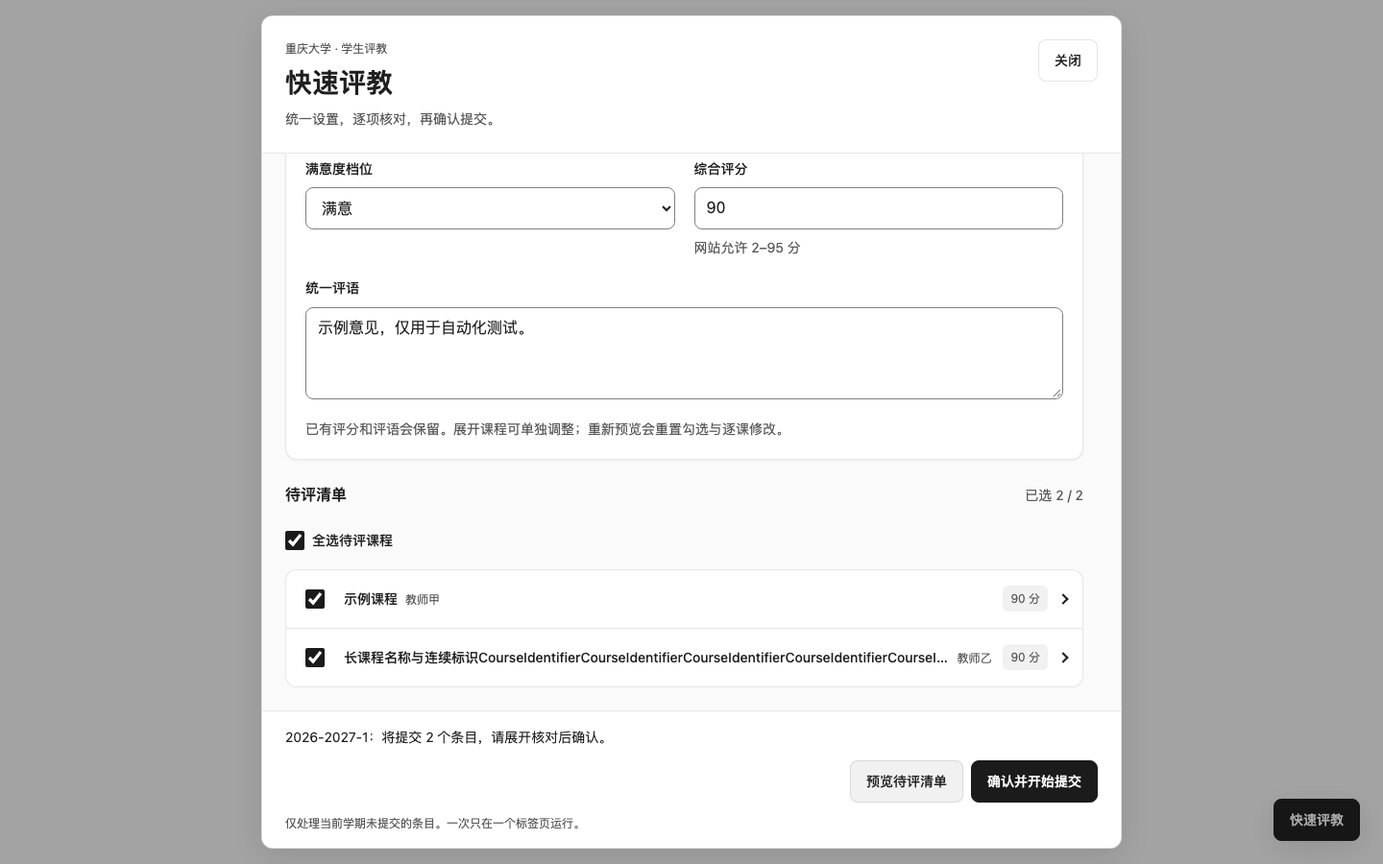
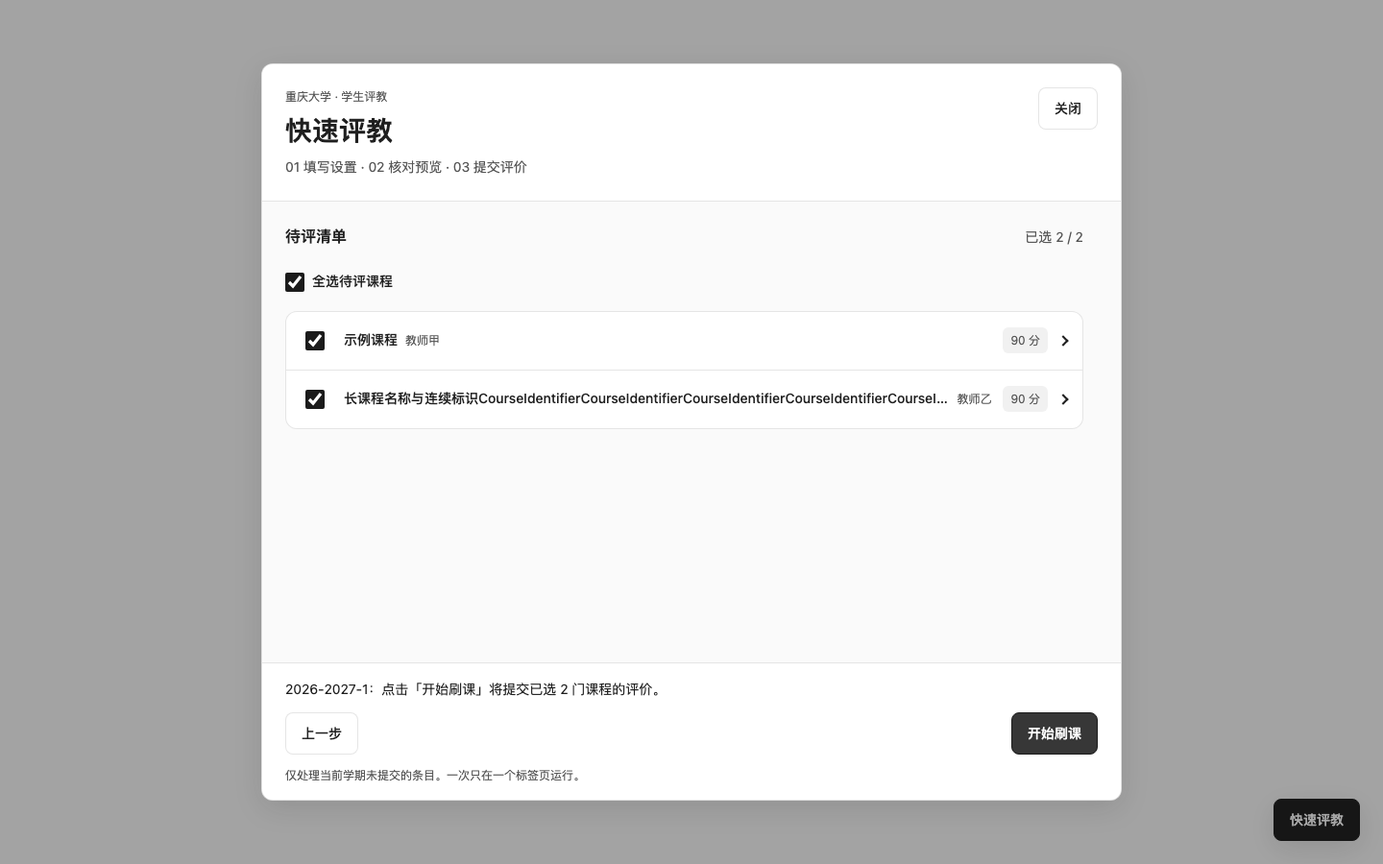
feat: 改为分步评教并展示动态提交进度

diff --git a/jxzljc.user.js b/jxzljc.user.js
@@ -138,7 +138,7 @@
       button:not(:disabled):active { background: var(--muted); }
       .primary:not(:disabled):active { background: color-mix(in oklab, var(--primary) 80%, var(--surface)); }
       #launch { position: fixed; bottom: max(var(--space-6), env(safe-area-inset-bottom)); right: var(--space-6); z-index: 2147483646; box-shadow: var(--shadow-popover); }
-      dialog { width: min(56rem, calc(100vw - var(--space-8))); max-width: none; max-height: calc(100dvh - var(--space-8)); margin: auto; padding: 0; border: 1px solid var(--border); border-radius: var(--radius-lg); color: var(--foreground); background: var(--background); box-shadow: var(--shadow-popover); overflow: hidden; }
+      dialog { width: min(56rem, calc(100vw - var(--space-8))); height: min(48rem, calc(100dvh - var(--space-8))); max-width: none; max-height: calc(100dvh - var(--space-8)); margin: auto; padding: 0; border: 1px solid var(--border); border-radius: var(--radius-lg); color: var(--foreground); background: var(--background); box-shadow: var(--shadow-popover); overflow: hidden; }
       dialog[open] { display: flex; flex-direction: column; }
       dialog::backdrop { background: var(--overlay); }
       header { display: flex; justify-content: space-between; align-items: flex-start; gap: var(--space-4); padding: var(--space-6); background: var(--surface); border-bottom: 1px solid var(--border); }
@@ -150,7 +150,7 @@
       h3 { font-size: var(--text-base); font-weight: 600; }
       .eyebrow { font-size: var(--text-xs); color: var(--muted-foreground); margin-bottom: var(--space-2); }
       .description { color: var(--muted-foreground); font-size: var(--text-sm); margin-top: var(--space-2); }
-      .content { padding: var(--space-6); display: grid; grid-template-columns: minmax(0, 1fr); gap: var(--space-6); min-height: 0; overflow-y: auto; overscroll-behavior: contain; scrollbar-gutter: stable; }
+      .content { flex: 1; padding: var(--space-6); display: grid; grid-template-columns: minmax(0, 1fr); align-content: start; gap: var(--space-6); min-height: 0; overflow-y: auto; overscroll-behavior: contain; scrollbar-gutter: stable; }
       .section-heading { display: flex; align-items: baseline; justify-content: space-between; gap: var(--space-3); margin-bottom: var(--space-3); }
       .card { border: 1px solid var(--border); border-radius: var(--radius-lg); background: var(--surface); box-shadow: var(--shadow-card); padding: var(--space-5); }
       fieldset { margin: 0; border: 0; display: grid; grid-template-columns: minmax(0, 1fr) minmax(0, 1fr); gap: var(--space-5); min-width: 0; }
@@ -189,17 +189,36 @@
       .result { font-size: var(--text-xs); color: var(--muted-foreground); background: var(--muted); border-radius: var(--radius-sm); padding: var(--space-1) var(--space-2); }
       .result[data-state="success"] { color: var(--success); }
       .result[data-state="error"] { color: var(--destructive); }
+      .progress-heading { display: flex; align-items: baseline; justify-content: space-between; flex-wrap: wrap; gap: var(--space-2); margin: var(--space-6) 0 var(--space-3); }
+      #percent { font-size: var(--text-display); line-height: 1; font-weight: 600; letter-spacing: -0.04em; font-variant-numeric: tabular-nums; }
+      .progress-track { height: var(--space-3); background: var(--muted); border-radius: var(--radius); overflow: hidden; }
+      .progress-fill { height: 100%; background: var(--primary); transform: scaleX(0); transform-origin: left; overflow: hidden; }
+      .progress-fill::after { content: ''; display: block; height: 100%; background: linear-gradient(90deg, transparent, var(--primary-foreground), transparent); opacity: 0; }
+      .progress-current { display: flex; align-items: baseline; gap: var(--space-2); margin-top: var(--space-5); }
+      .activity-dot { width: var(--space-2); height: var(--space-2); flex: none; border-radius: var(--radius); background: var(--primary); }
+      #current-course { min-width: 0; overflow-wrap: anywhere; font-size: var(--text-sm); }
+      #progress-step[data-state="complete"] :is(#percent, #progress-title) { color: var(--success); }
+      #progress-step[data-state="error"] #progress-title { color: var(--destructive); }
+      @media (prefers-reduced-motion: no-preference) {
+        :host([data-motion="on"]) .progress-fill { transition: transform 280ms var(--ease-out); }
+        :host([data-motion="on"]) #progress-step[data-state="running"] .progress-fill::after { animation: sweep 1.4s linear infinite; }
+        :host([data-motion="on"]) #progress-step[data-state="running"] .activity-dot { animation: pulse 1.2s ease-in-out infinite; }
+        :host([data-motion="on"]) button { transition: transform var(--duration-feedback) var(--ease-out); }
+        :host([data-motion="on"]) button:not(:disabled):active { transform: scale(0.97); }
+      }
+      @keyframes sweep { from { transform: translateX(-100%); opacity: 0.1; } 50% { opacity: 0.35; } to { transform: translateX(100%); opacity: 0.1; } }
+      @keyframes pulse { 50% { opacity: 0.35; } }
       footer { display: grid; gap: var(--space-3); padding: var(--space-4) var(--space-6); border-top: 1px solid var(--border); background: var(--surface); }
       .feedback { display: grid; gap: var(--space-3); max-height: min(10rem, 25dvh); overflow-y: auto; }
       #status, #error { font-size: var(--text-sm); white-space: pre-wrap; overflow-wrap: anywhere; }
       #error { color: var(--destructive); border-left: 2px solid var(--destructive); padding-left: var(--space-3); }
       #error:empty { display: none; }
       .actions { display: flex; flex-wrap: wrap; justify-content: flex-end; gap: var(--space-2); }
-      .actions:has(#stop:not([hidden])) > :is(#preview, #confirm, #refresh) { display: none; }
+      #back { margin-right: auto; }
       .notice { font-size: var(--text-xs); color: var(--muted-foreground); }
       [hidden] { display: none !important; }
       @media (max-width: 540px) {
-        dialog { width: calc(100vw - var(--space-4)); max-height: calc(100dvh - var(--space-4)); }
+        dialog { width: calc(100vw - var(--space-4)); height: min(48rem, calc(100dvh - var(--space-4))); max-height: calc(100dvh - var(--space-4)); }
         header, .content { padding: var(--space-4); }
         header { gap: var(--space-2); }
         h2 { font-size: var(--text-xl); }
@@ -208,7 +227,6 @@
         .teacher { max-width: none; }
         .card { padding: var(--space-4); }
         footer { padding: var(--space-3) var(--space-4) max(var(--space-3), env(safe-area-inset-bottom)); }
-        .actions { display: grid; grid-template-columns: 1fr; }
         #launch { right: var(--space-4); bottom: max(var(--space-4), env(safe-area-inset-bottom)); }
       }
       @media (max-height: 540px) { .eyebrow, header .description, .notice { display: none; } header, footer { padding: var(--space-2) var(--space-4); } .actions { display: flex; } }
@@ -216,24 +234,31 @@
     <button id="launch" class="primary">快速评教</button>
     <dialog aria-labelledby="title" aria-describedby="dialog-description">
       <header>
-        <div><p class="eyebrow">重庆大学 · 学生评教</p><h2 id="title">快速评教</h2><p class="description" id="dialog-description">统一设置，逐项核对，再确认提交。</p></div>
+        <div><p class="eyebrow">重庆大学 · 学生评教</p><h2 id="title">快速评教</h2><p class="description" id="dialog-description">01 填写设置 · 02 核对预览 · 03 提交评价</p></div>
         <button id="close" aria-label="关闭快速评教">关闭</button>
       </header>
       <div class="content">
-        <section aria-labelledby="settings-title">
-          <div class="section-heading"><h3 id="settings-title">统一评价设置</h3><span class="count">仅补空白</span></div>
+        <section id="settings-step" aria-labelledby="settings-title">
+          <div class="section-heading"><h3 id="settings-title" tabindex="-1">统一评价设置</h3><span class="count">第 1 步</span></div>
           <form id="settings">
             <fieldset class="card" aria-labelledby="settings-title">
               <label>满意度档位<select id="grade" required><option value="">请选择满意度</option></select></label>
               <div class="field"><label for="overall">综合评分</label><input id="overall" type="number" step="1" required aria-describedby="score-help"><p class="muted" id="score-help">按网站允许的范围填写</p></div>
               <label class="wide">统一评语<textarea id="comment" rows="3" placeholder="填写你的意见与建议，可留空"></textarea></label>
-              <p class="muted wide">已有评分和评语会保留。展开课程可单独调整；重新预览会重置勾选与逐课修改。</p>
+              <p class="muted wide">已有评分和评语会保留。下一步可选择课程、逐门调整；修改统一设置会重置逐课修改。</p>
             </fieldset>
           </form>
         </section>
-        <section aria-labelledby="list-title">
-          <div class="section-heading"><h3 id="list-title">待评清单</h3><span class="count" id="count">尚未生成</span></div>
-          <div id="empty"><strong>先填写统一评价设置</strong><p class="muted">预览后即可核对当前学期的待评条目。</p></div>
+        <section id="progress-step" class="card" aria-labelledby="progress-title" hidden>
+          <h3 id="progress-title" tabindex="-1">正在提交评价</h3>
+          <div class="progress-heading"><strong id="percent" aria-hidden="true">0%</strong><span id="progress-count" class="count"></span></div>
+          <div id="progress-bar" class="progress-track" role="progressbar" aria-label="已核实评价进度" aria-valuemin="0" aria-valuemax="1" aria-valuenow="0"><div id="progress-fill" class="progress-fill"></div></div>
+          <div class="progress-current"><span class="activity-dot" aria-hidden="true"></span><p id="current-course">尚未开始提交课程</p></div>
+          <p id="progress-phase" class="description">服务器核实成功后计入进度。</p>
+        </section>
+        <section id="preview-step" aria-labelledby="list-title" hidden>
+          <div class="section-heading"><h3 id="list-title" tabindex="-1">待评清单</h3><span class="count" id="count"></span></div>
+          <div id="empty" hidden><strong>当前学期没有待评条目</strong><p class="muted">已提交和非待评状态的条目不会列入清单。</p></div>
           <form id="evaluation" novalidate>
             <label id="selection" class="checkbox" hidden><input id="select-all" type="checkbox">全选待评课程</label>
             <ol id="list" aria-label="待评清单"></ol>
@@ -242,14 +267,15 @@
       </div>
       <footer>
         <div class="feedback">
-          <p id="status" role="status" aria-live="polite">尚未生成预览，不会提交评价。</p>
+          <p id="status" role="status" aria-live="polite">填写后进入下一步，核对课程与评价内容。</p>
           <p id="error" role="alert"></p>
         </div>
         <div class="actions">
-          <button class="primary" id="preview" type="submit" form="settings">预览待评清单</button>
-          <button id="confirm" type="submit" form="evaluation" disabled>确认并开始提交</button>
+          <button class="primary" id="next" type="submit" form="settings">下一步</button>
+          <button id="back" hidden>上一步</button>
+          <button class="primary" id="confirm" type="submit" form="evaluation" hidden disabled>开始刷课</button>
           <button id="stop" class="primary" hidden>停止后续提交</button>
-          <button id="refresh" hidden>刷新课程列表</button>
+          <button id="refresh" class="primary" hidden>刷新课程列表</button>
         </div>
         <p class="notice">仅处理当前学期未提交的条目。一次只在一个标签页运行。</p>
       </footer>
@@ -262,18 +288,59 @@
   let plan = null;
   let busy = false;
   let stopping = false;
+  let step = 'settings';
+  let stepAnimation;
+  const reducedMotion = matchMedia('(prefers-reduced-motion: reduce)');
+  host.dataset.motion = 'off';
+  root.addEventListener('pointerdown', () => { host.dataset.motion = reducedMotion.matches ? 'off' : 'on'; });
+  root.addEventListener('keydown', () => { host.dataset.motion = 'off'; stepAnimation?.cancel(); });
+  reducedMotion.addEventListener('change', () => { if (reducedMotion.matches) stepAnimation?.cancel(); });
+
+  function showStep(next) {
+    const backwards = next === 'settings';
+    step = next;
+    $('settings-step').hidden = step !== 'settings';
+    $('preview-step').hidden = step === 'settings';
+    $('progress-step').hidden = step !== 'progress';
+    $('list-title').textContent = step === 'progress' ? '提交记录' : '待评清单';
+    $('selection').hidden = step !== 'preview' || !plan?.items.length;
+    lock(busy);
+    const content = root.querySelector('.content');
+    content.scrollTop = 0;
+    stepAnimation?.cancel();
+    if (host.dataset.motion === 'on' && !reducedMotion.matches) {
+      stepAnimation = content.animate([
+        { opacity: 0, transform: `translateX(${backwards ? -12 : 12}px)` },
+        { opacity: 1, transform: 'translateX(0)' },
+      ], { duration: 180, easing: 'cubic-bezier(0.19, 1, 0.22, 1)' });
+    }
+    $(step === 'settings' ? 'settings-title' : step === 'preview' ? 'list-title' : 'progress-title').focus({ preventScroll: true });
+  }
+
+  function updateProgress(completed, total) {
+    $('percent').textContent = `${Math.round(completed / total * 100)}%`;
+    $('progress-count').textContent = `${completed} / ${total} 门已核实`;
+    $('progress-bar').setAttribute('aria-valuemax', String(total));
+    $('progress-bar').setAttribute('aria-valuenow', String(completed));
+    $('progress-bar').setAttribute('aria-valuetext', `${completed} / ${total} 门已核实提交成功`);
+    $('progress-fill').style.transform = `scaleX(${completed / total})`;
+  }
 
   function lock(value) {
     busy = value;
     fieldset.disabled = value;
-    $('preview').disabled = value;
+    $('next').disabled = value;
+    $('next').hidden = step !== 'settings';
+    $('next').textContent = value ? '正在读取…' : '下一步';
+    $('back').disabled = value;
+    $('back').hidden = step !== 'preview';
     $('close').disabled = value;
     $('refresh').disabled = value;
+    $('refresh').hidden = step !== 'progress' || value;
+    $('stop').hidden = step !== 'progress' || !value;
     const selected = plan?.items.some(item => item.selected);
     $('confirm').disabled = value || !selected;
-    $('preview').classList.toggle('primary', !selected && $('refresh').hidden);
-    $('refresh').classList.toggle('primary', !selected);
-    $('confirm').classList.toggle('primary', Boolean(selected));
+    $('confirm').hidden = step !== 'preview';
     for (const control of $('evaluation').querySelectorAll('fieldset, input[type="checkbox"]')) control.disabled = value || !plan;
     $('settings').setAttribute('aria-busy', String(value));
   }
@@ -374,8 +441,8 @@
     $('count').textContent = `已选 ${count} / ${plan.items.length}`;
     $('select-all').checked = count > 0 && count === plan.items.length;
     $('select-all').indeterminate = count > 0 && count < plan.items.length;
-    $('status').textContent = count ? `${plan.semester}：将提交 ${count} 个条目，请展开核对后确认。` : '尚未选择课程，请勾选要评价的条目。';
-    lock(false);
+    $('status').textContent = count ? `${plan.semester}：点击「开始刷课」将提交已选 ${count} 门课程的评价。` : (plan.items.length ? '尚未选择课程，请勾选要评价的条目。' : `${plan.semester}：0 个待评条目，无需提交。`);
+    lock(busy);
   }
 
   function showPlan(items, range) {
@@ -507,31 +574,31 @@
   });
   $('close').addEventListener('click', () => dialog.close());
   dialog.addEventListener('cancel', event => { if (busy) event.preventDefault(); });
+  $('back').addEventListener('click', () => {
+    if (busy || step !== 'preview') return;
+    showStep('settings');
+    $('error').textContent = '';
+    $('status').textContent = '课程选择与逐课编辑已保留；修改统一设置后会重新生成。';
+  });
   $('settings').addEventListener('input', () => {
     plan = null;
-    $('confirm').disabled = true;
     $('list').replaceChildren();
     $('selection').hidden = true;
-    $('preview').classList.toggle('primary', $('refresh').hidden);
-    $('confirm').classList.remove('primary');
     $('error').textContent = '';
-    $('count').textContent = '需要重新预览';
-    $('empty').hidden = false;
-    $('empty').innerHTML = '<strong>设置已改变</strong><p class="muted">重新预览后，即可核对新的提交内容。</p>';
-    $('status').textContent = '设置已改变，请重新预览。';
+    $('status').textContent = '填写后进入下一步，核对课程与评价内容。';
+    lock(busy);
   });
   $('settings').addEventListener('submit', async event => {
     event.preventDefault();
-    if (busy) return;
-    plan = null;
+    if (busy || step !== 'settings') return;
+    if (plan) {
+      showStep('preview');
+      updateSelection();
+      return;
+    }
     lock(true);
     $('error').textContent = '';
     $('status').textContent = '正在读取当前学期、待评条目和草稿…';
-    $('count').textContent = '正在读取';
-    $('empty').hidden = false;
-    $('empty').innerHTML = '<strong>正在读取待评条目…</strong><p class="muted">正在核对当前学期、指标和已有草稿。</p>';
-    $('list').replaceChildren();
-    $('selection').hidden = true;
     try {
       const modal = document.getElementById('evaluationModal');
       if (modal && getComputedStyle(modal).display !== 'none') fail('请先关闭网站的单门评教窗口，保存当前草稿后再预览。');
@@ -551,13 +618,10 @@
       plan = { semester, items, draftRaw, reviewedAt: Date.now() };
       showPlan(items, range);
       updateSelection();
-      $('list-title').scrollIntoView({ block: 'start', behavior: 'instant' });
-      if (!items.length) $('status').textContent = `${semester}：0 个待评条目，无需提交。`;
+      showStep('preview');
     } catch (error) {
       $('status').textContent = '未生成提交计划。';
-      $('count').textContent = '未生成';
-      $('empty').innerHTML = '<strong>暂时无法生成预览</strong><p class="muted">按下方提示处理后，重新预览。已填写的设置会保留。</p>';
-      $('error').textContent = error.message;
+      $('error').textContent = `${error.message}\n处理后点击「下一步」重试，已填写的设置会保留。`;
     } finally { lock(false); }
   });
 
@@ -565,11 +629,13 @@
   $('stop').addEventListener('click', () => {
     stopping = true;
     $('stop').disabled = true;
+    $('progress-title').textContent = '正在停止';
+    $('progress-step').dataset.state = 'stopped';
     $('status').textContent = '正在停止；如已发出提交请求，将先核实当前条目的结果。';
   });
   $('evaluation').addEventListener('submit', async event => {
     event.preventDefault();
-    if (busy || !plan) return;
+    if (busy || step !== 'preview' || !plan) return;
     const selected = plan.items.filter(item => item.selected);
     if (!selected.length) return;
     const invalid = selected.find(item => !item.validate());
@@ -580,7 +646,10 @@
     stopping = false;
     $('stop').disabled = false;
     $('error').textContent = '';
-    $('stop').hidden = false;
+    $('status').textContent = '正在核对当前学期与课程状态…';
+    $('progress-step').dataset.state = 'running';
+    updateProgress(0, batch.items.length);
+    showStep('progress');
     $('stop').focus({ preventScroll: true });
     let completed = 0;
     let active = null;
@@ -597,18 +666,28 @@
         if (!latest || !pending(latest) || latest.kcxz !== item.course.kcxz || latest.teacher !== item.course.teacher || latest.name !== item.course.name) fail('条目状态已变化，请重新预览。');
         if (localStorage.getItem('evaluationState') !== batch.draftRaw) fail('草稿已变化，请重新预览。');
         item.result.textContent = '正在提交…';
+        $('current-course').textContent = `${item.course.name} · ${item.course.teacher}`;
+        $('progress-phase').textContent = '正在提交评价，核实成功后计入进度。';
         $('status').textContent = `正在提交：${item.course.name} · ${item.course.teacher}（已完成 ${completed} / ${batch.items.length}）`;
         sent = true;
         await api('/saveEvaluation', { ...item.payload, pjsj: Math.max(0, Math.round((Date.now() - batch.reviewedAt) / 1000)) });
         item.result.textContent = '正在核实提交结果…';
+        $('progress-phase').textContent = '正在向服务器核实提交结果…';
         const saved = (await courses(batch.semester)).find(c => c.id === item.course.id);
         if (!saved?.completed || saved.status === '未评教' || !saved.status) fail('服务器尚未显示已提交，结果未确认。');
         item.result.textContent = `已核实提交成功 · ${saved.status}`;
         item.result.dataset.state = 'success';
         completed++;
+        updateProgress(completed, batch.items.length);
       }
+      $('progress-step').dataset.state = stopping ? 'stopped' : 'complete';
+      $('progress-title').textContent = stopping ? '已停止' : '全部评价已完成';
+      $('progress-phase').textContent = stopping ? '已停止后续提交。刷新后重新核对剩余课程。' : '所有已选课程均已核实提交成功。';
       $('status').textContent = `${stopping ? '已停止' : '完成'}：${completed} / ${batch.items.length} 个条目已核实提交成功。`;
     } catch (error) {
+      $('progress-step').dataset.state = 'error';
+      $('progress-title').textContent = '提交已停止';
+      $('progress-phase').textContent = '进度仅包含已核实成功的课程，请先刷新核实。';
       if (active) {
         active.result.textContent = sent ? '结果未确认，请先刷新核实' : '未提交';
         active.result.dataset.state = 'error';
@@ -616,8 +695,6 @@
       $('status').textContent = `已停止：${completed} / ${batch.items.length} 个条目已核实提交成功。`;
       $('error').textContent = `${active ? `${active.course.name} · ${active.course.teacher}：` : ''}${error.message}${sent ? '\n请求可能已到达服务器；请先刷新核实，再决定是否重新预览。' : ''}`;
     } finally {
-      $('stop').hidden = true;
-      $('refresh').hidden = false;
       lock(false);
       $('refresh').focus({ preventScroll: true });
     }

diff --git a/docs/design.md b/docs/design.md
@@ -8,9 +8,9 @@
 
 `.design/` 保存本地主题包，开发时由 `scripts/design.mjs` 读取公开的 `@cqu-moe/theme/styles.css`。`npm run build` 只把 `:root` 选择器转换为 shadow host 对应的 `:host` 选择器，并嵌入脚本标记区；设计变量保持原样。这是主题文件同步，不需要打包器或运行时网络依赖。学校页面不受主题 CSS 影响。
 
-界面自动跟随系统深浅色，未增加手动主题偏好或存储键。无列表／弹窗入场动画，键盘和减少动态效果模式同样即时显示。颜色、字号、间距、圆角与阴影使用共享语义变量；44px 触屏尺寸、16px 输入下限和视口断点为浏览器布局约束。
+界面自动跟随系统深浅色，未增加手动主题偏好或存储键。指针触发步骤切换时，使用原生 WAAPI 的180ms、12px方向提示与淡入；前进从右进入，返回从左进入。进度填充通过 transform 在280ms内追随已核实数量，扫光与状态点仅在提交期间循环。键盘和减少动态效果模式下即时切换、无循环动效。颜色、字号、间距、圆角与阴影使用共享语义变量；44px触屏尺寸、16px输入下限和视口断点为浏览器布局约束。未引入动画依赖。
 
-固定头尾、滚动内容区用于保留长清单中的停止／恢复入口。预览后定位到清单；提交期间突出停止动作，结束后焦点返回刷新按钮。v0.3.0 使用原生 details/summary 展开课程，复选框作为独立控件放在展开控件外，避免嵌套点击冲突；CSS 仅绘制展开指示。收起时省略过长名称，展开可读完整名称和教师。选择与编辑共用提交锁；校验失败会展开课程并聚焦错误字段。
+固定头尾和稳定的弹窗高度用于分步切换，内容区独立滚动。初始仅设置面板与「下一步」；预览显示清单、「上一步」和「开始刷课」；提交显示进度与记录，突出停止动作，结束后焦点返回刷新按钮。返回设置保留预览状态，修改统一设置才使其失效。v0.3.0 使用原生 details/summary 展开课程，复选框作为独立控件放在展开控件外；CSS仅绘制展开指示。收起时省略过长名称，展开可读完整名称和教师。选择与编辑共用提交锁；校验失败会展开课程并聚焦错误字段。
 
 ## 自动检查
 
@@ -24,12 +24,12 @@ npm test
 
 `check:design` 是适用于单文件脚本的有限检查：保证内嵌 CSS 与本地主题包一致、业务样式不使用原始颜色／全属性过渡、引用的主题变量存在。它不等同于 React UI 包的完整消费检查器，也不证明视觉、可访问性或真实接口正确；需结合下面的页面检查。
 
-[桌面浅色设置](screenshots/settings-light.png) · [课程选择清单](screenshots/course-list-light.png) · [手机深色编辑](screenshots/preview-dark-mobile.png)（均为合成数据）
+[桌面浅色设置](screenshots/settings-light.png) · [课程选择清单](screenshots/course-list-light.png) · [手机深色编辑](screenshots/preview-dark-mobile.png) · [提交进度](screenshots/progress-dark.png) · [手机进度](screenshots/progress-dark-mobile.png)（均为合成数据）
 
 ## 2026-10-19 验收范围
 
 - 本地构建、语法与主题同步检查通过；另使用 CQU Design 源码的官方 `checkSource` 检查业务代码（排除原样内嵌的主题区），无违规。
-- 受控 HTTP 的 Chromium 测试：24 项；新增勾选、全选、逐课编辑的请求内容与草稿保护、收起错误定位、未选项排除校验；不连接学校服务器。
+- 受控 HTTP 的 Chromium 测试：27 项；覆盖分步往返、勾选、全选、逐课编辑的请求内容与草稿保护、收起错误定位、未选项排除校验，以及已发送未回读时不增加进度、部分成功与完成计数、循环结束、键盘与减少动态效果；不连接学校服务器。
 - 320／390／768／1440px × 浅深主题：长标题重排、无横向溢出、操作区可达、44px 控件与16px 输入下限；保存对应截图供视觉检查。
 - 系统主题即时变化及刷新；不会修改学校主题或写入 localStorage。
 - 键盘打开／校验／Enter 预览／Escape 关闭与焦点恢复；慢加载、空清单、窄屏停止、提交失败后的刷新入口；超长服务端错误在反馈区完整滚动显示，恢复按钮仍可见。

diff --git a/docs/quick-evaluation-plan.md b/docs/quick-evaluation-plan.md
@@ -11,7 +11,9 @@
 - 已填写但未提交的评分、综合评分和评语原样保留，只补空白。
 - 失败或提交结果不明确时停止，显示失败原因和已完成进度；不自动重试提交。
 
-2026-10-19 补充需求：待评清单默认显示紧凑课程行，展开后可修改指标评分、综合评分和评语；通过复选框决定本次评价哪些条目。默认全选，取消勾选或收起保留临时编辑；重新预览或刷新重置。草稿仍用于预填，手动修改只影响本次提交，学校本地草稿不被改写。提交前校验所有已选条目，存在错误则展开定位并阻止整个批次。
+2026-10-19 补充需求：待评清单默认显示紧凑课程行，展开后可修改指标评分、综合评分和评语；通过复选框决定本次评价哪些条目。默认全选，取消勾选或收起保留临时编辑。草稿仍用于预填，手动修改只影响本次提交，学校本地草稿不被改写。提交前校验所有已选条目，存在错误则展开定位并阻止整个批次。
+
+交互采用分步界面：初始只有一个设置面板（满意度、综合分、评语），右下角「下一步」切换至预览；预览底部为「上一步」和「开始刷课」。往返保留勾选与逐课编辑，修改统一设置或刷新才重置。切换有方向提示和淡入；提交阶段的动效进度条只按服务器核实成功的课程数量推进，保留停止、部分失败与结果不明确状态。键盘和减少动态效果模式下即时显示。
 
 ## 范围与验收
 
